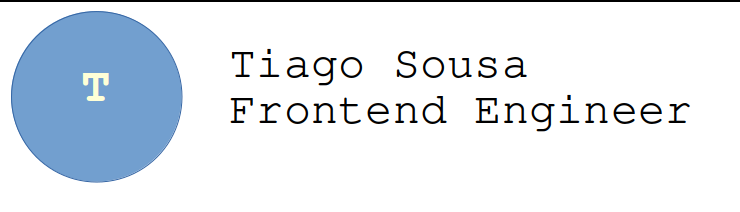
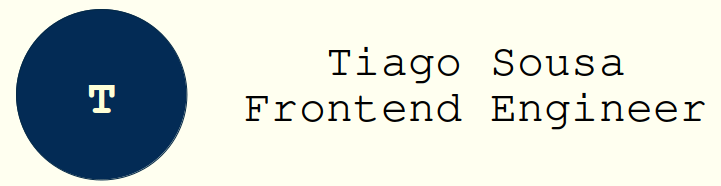
Fix header in first page

Changed region(s): [[0.0, 0.0, 1.0, 0.9946], [0.3051, 0.2419, 0.9764, 0.6989]]

diff --git a/4-Second_project_CSS_techniques/dist/main.css b/4-Second_project_CSS_techniques/dist/main.css
@@ -25,19 +25,17 @@ html, body {
 
 .header-banner {
   width: 100%;
-  height: auto;
-  display: block;
-  align-items: center;
-  background-size: cover;
-  background-position: center;
-  background-repeat: no-repeat;
   overflow: hidden;
-  padding: 0;
-  margin: 0; }
-  .header-banner__banner-image {
-    width: 100%;
-    object-fit: contain;
-    display: block; }
+  margin: 0;
+  padding: 0; }
+
+.header-banner__banner-image {
+  width: 95%;
+  height: auto;
+  max-height: 15vh;
+  /* Constrain height on all screens */
+  display: block;
+  object-fit: contain; }
 
 .header-latest-projects-page {
   display: flex;
@@ -71,10 +69,6 @@ html, body {
       color: #072755;
       background-color: #e7e7d3; }
 
-@media (min-width: 768px) {
-  .header-banner__banner-image {
-    height: 10%;
-    width: 100%; } }
 @media (max-width: 768px) {
   .header-latest-projects-page__ul {
     flex-direction: column;

diff --git a/4-Second_project_CSS_techniques/src/scss/blocks/_header.scss b/4-Second_project_CSS_techniques/src/scss/blocks/_header.scss
@@ -1,21 +1,16 @@
 .header-banner {
   width: 100%;
-  height: auto;
-  display: block;
-  align-items: center;
-  background-size: cover;
-  background-position: center;
-  background-repeat: no-repeat;
   overflow: hidden;
-  padding: 0;
   margin: 0;
+  padding: 0;
+}
 
-  &__banner-image {
-    width: 100%;
-    object-fit: contain;
-    display: block;
-  }
-
+.header-banner__banner-image {
+  width: 95%;
+  height: auto;
+  max-height: 15vh; /* Constrain height on all screens */
+  display: block;
+  object-fit: contain;
 }
 
 .header-latest-projects-page {
@@ -52,12 +47,6 @@
   }
 }
 
-@media (min-width: 768px) {
-  .header-banner__banner-image {
-    height: 10%;
-    width: 100%;
-  }
-}
 
 @media (max-width: 768px) {
   .header-latest-projects-page__ul {

diff --git a/4-Second_project_CSS_techniques/project_guide.md b/4-Second_project_CSS_techniques/project_guide.md
@@ -293,4 +293,3 @@ for the first page (TBD)
 13. Check the required accessibility standards for A and AA at the following link   
 [Web Accessibility Evaluation Tools List](https://www.w3.org/WAI/test-evaluate/tools/list/)   
 for the second page (TBD)  
-s
